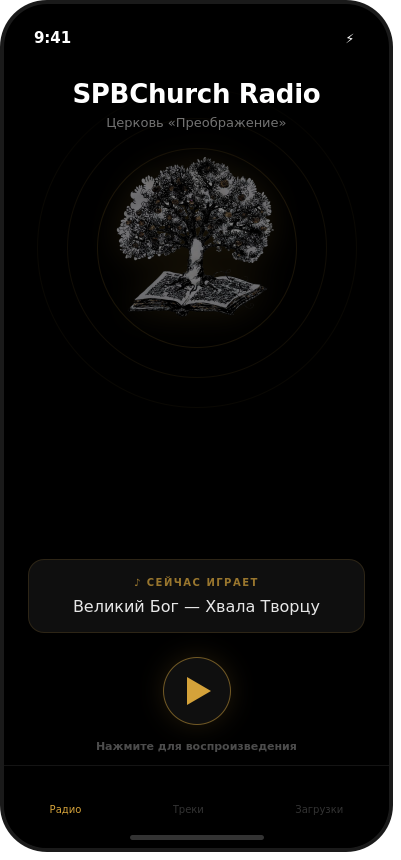
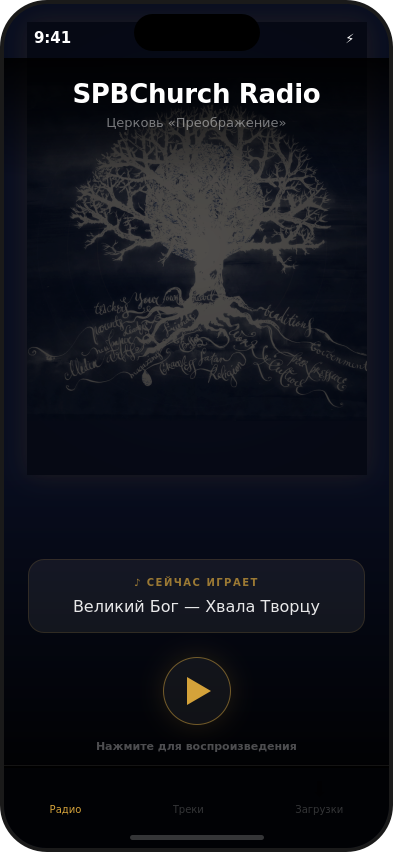
Replace background with new tree artwork (keneta_UAR)
- New illustration: tree with calligraphic roots
- Source image processed: inverted, navy+gold color tint, vignette
- Full-screen fill instead of centered fit
- Brighter when playing (opacity 0.55 → 0.9)
- Updated radio mockup screenshot
- Updated README changelog (v1.4)

diff --git a/SPBChurchRadio/Views/RadioView.swift b/SPBChurchRadio/Views/RadioView.swift
@@ -8,36 +8,36 @@ struct RadioView: View {
     var body: some View {
         NavigationStack {
             ZStack {
-                // Pure black base (matches the image background)
-                Color.black.ignoresSafeArea()
+                // Dark base
+                Color(red: 0.03, green: 0.05, blue: 0.12).ignoresSafeArea()
 
-                // Tree background image — centered, with subtle glow
+                // Tree background — pre-processed dark image, fill screen
                 Image("TreeBackground")
                     .resizable()
-                    .aspectRatio(contentMode: .fit)
-                    .frame(maxWidth: 320)
-                    .opacity(radioPlayer.isRadioPlaying ? 0.6 : 0.35)
-                    .shadow(color: AppColors.accent.opacity(treeGlow ? 0.3 : 0.1), radius: 40)
+                    .aspectRatio(contentMode: .fill)
+                    .frame(maxWidth: .infinity, maxHeight: .infinity)
+                    .opacity(radioPlayer.isRadioPlaying ? 0.9 : 0.55)
+                    .shadow(color: AppColors.accent.opacity(treeGlow ? 0.2 : 0.05), radius: 50)
                     .animation(.easeInOut(duration: 3).repeatForever(autoreverses: true), value: treeGlow)
-                    .offset(y: -30)
+                    .ignoresSafeArea()
 
-                // Gradient overlay — fades top and bottom for text readability
+                // Subtle gradient for text readability at top/bottom
                 VStack(spacing: 0) {
                     LinearGradient(
-                        colors: [.black.opacity(0.9), .clear],
+                        colors: [Color(red: 0.03, green: 0.05, blue: 0.12).opacity(0.8), .clear],
                         startPoint: .top,
                         endPoint: .bottom
                     )
-                    .frame(height: 140)
+                    .frame(height: 120)
 
                     Spacer()
 
                     LinearGradient(
-                        colors: [.clear, .black.opacity(0.85)],
+                        colors: [.clear, Color(red: 0.03, green: 0.05, blue: 0.12).opacity(0.75)],
                         startPoint: .top,
                         endPoint: .bottom
                     )
-                    .frame(height: 280)
+                    .frame(height: 250)
                 }
                 .ignoresSafeArea()
 

diff --git a/README.md b/README.md
@@ -89,6 +89,12 @@ SPBChurchRadio/
 
 ## История изменений
 
+### v1.4 — Новая иллюстрация «Древо с корнями»
+- Новое artwork: дерево с каллиграфическими корнями
+- Исходная светлая картинка обработана: инвертирована, тонирована в navy+gold
+- Виньетка по краям, полноэкранное заполнение
+- Дерево ярче при воспроизведении (opacity 0.55 → 0.9)
+
 ### v1.3 — Фоновая иллюстрация «Древо жизни»
 - Картинка дерева из книги как центральный элемент экрана радио
 - Золотистое свечение дерева пульсирует при воспроизведении
